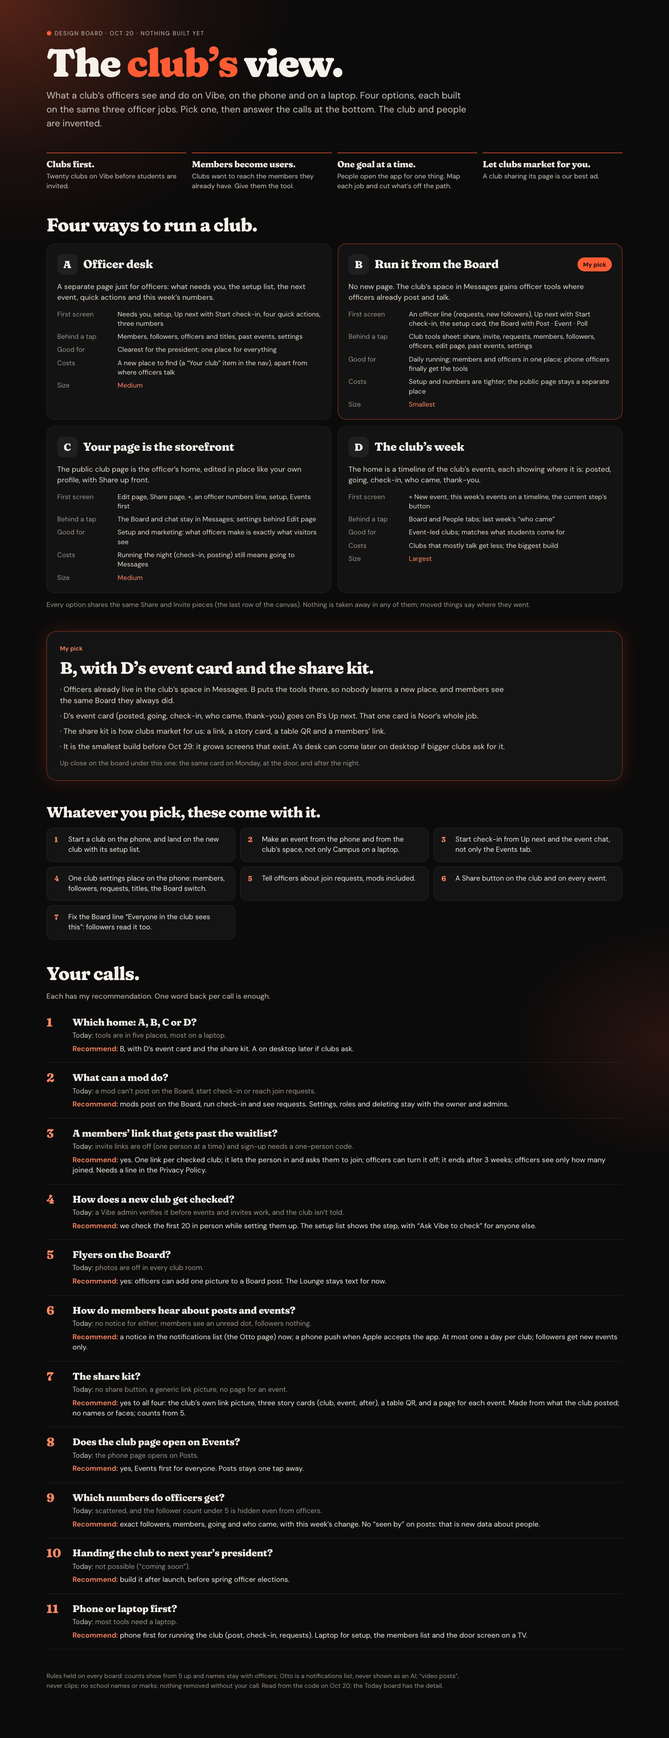
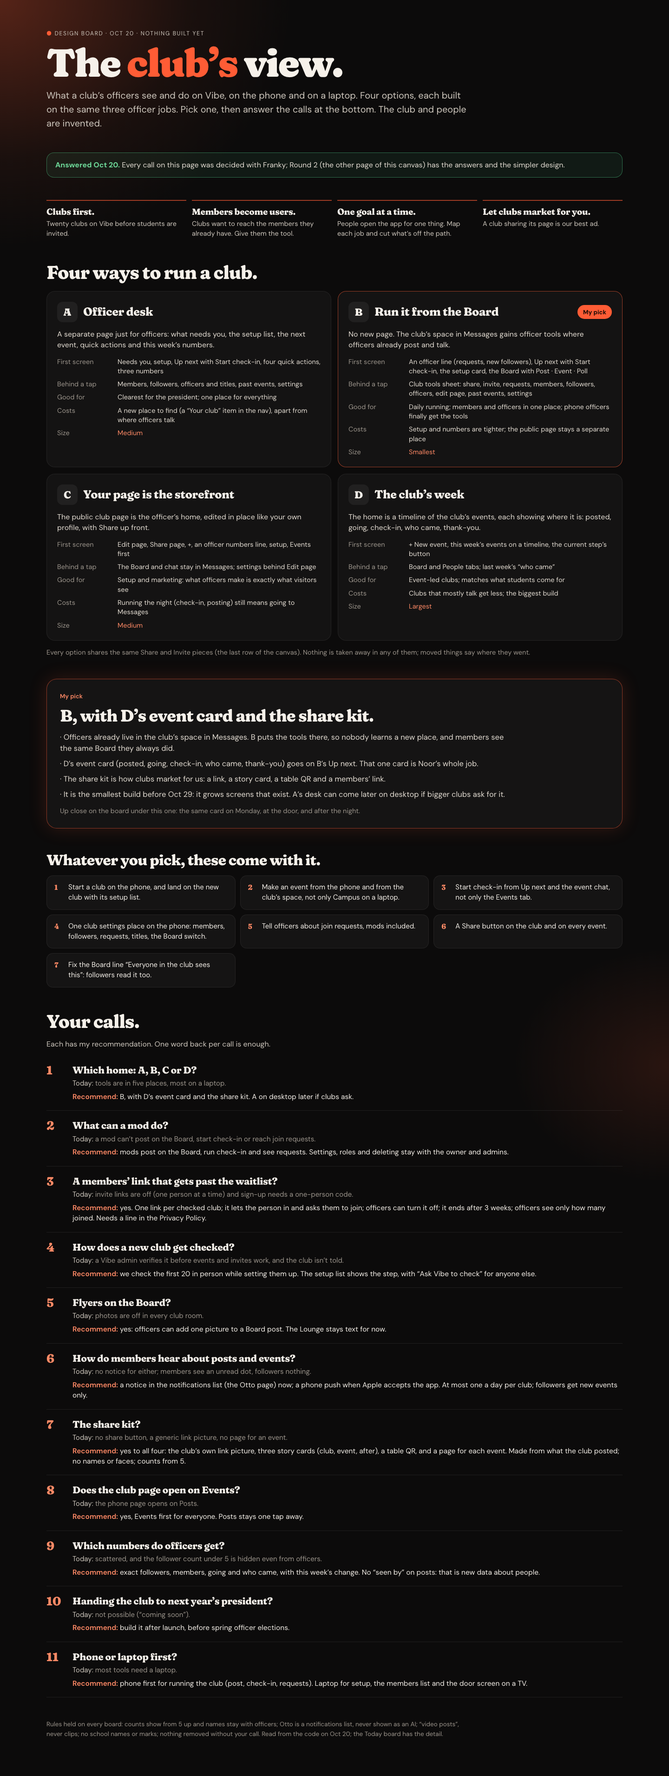
docs(handoff): club view, every call answered, DECISIONS.md (Franky, Oct 20)
Round 1's eight calls answered one by one: Owner and Officers (no mods), a
members' link with limits, Board pictures and event covers, notices, the
whole share kit, Posts first with About in the header, counts and Insights,
hand-over before launch. Boards redrawn to match; DECISIONS.md lists what
each one touches for the build plan.

Changed region(s): [[0.0625, 0.031, 0.9062, 0.9925], [0.6875, 0.4652, 0.9062, 0.5273]]

diff --git a/handoffs/2026-10-20-club-view/project/R2_Main.dc.html b/handoffs/2026-10-20-club-view/project/R2_Main.dc.html
@@ -16,7 +16,7 @@ a{color:inherit;text-decoration:none}
 a:hover{color:inherit}
 </style>
 </helmet>
-<div style="min-height: 1600px; position: relative; isolation: isolate; background: #0C0B0B; color: #F6F1EA; font-family: 'DM Sans', system-ui, sans-serif; padding: 64px 24px 72px">
+<div style="min-height: 2240px; position: relative; isolation: isolate; background: #0C0B0B; color: #F6F1EA; font-family: 'DM Sans', system-ui, sans-serif; padding: 64px 24px 72px">
   <div aria-hidden="true" style="position: absolute; inset: 0; z-index: -1; pointer-events: none; background: radial-gradient(900px 760px at 0% 0%, rgba(255,92,53,0.28), rgba(255,92,53,0.06) 45%, transparent 70%)"></div>
   <div style="max-width: 1120px; margin: 0 auto; display: flex; flex-direction: column; gap: 44px">
     <header style="display: flex; flex-direction: column; gap: 14px; max-width: 900px">
@@ -45,7 +45,7 @@ a:hover{color:inherit}
     </section>
 
     <section aria-label="Calls" style="display: flex; flex-direction: column; gap: 10px">
-      <h2 style="font-family: Fraunces, serif; font-weight: 800; font-size: 36px; letter-spacing: -0.03em">Four calls, answered.</h2>
+      <h2 style="font-family: Fraunces, serif; font-weight: 800; font-size: 36px; letter-spacing: -0.03em">Every call, answered.</h2>
       <ol style="list-style: none; display: flex; flex-direction: column">
         <sc-for list="{{calls}}" as="c" hint-placeholder-count="4">
           <li style="display: grid; grid-template-columns: 44px minmax(0, 1fr); gap: 4px 12px; padding: 16px 0; border-bottom: 1px solid rgba(255,255,255,0.08)">
@@ -57,12 +57,21 @@ a:hover{color:inherit}
           </li>
         </sc-for>
       </ol>
-      <p style="font-size: 14.5px; line-height: 1.5; color: #9C958C">Round 1’s other calls still stand: what mods can do, the members’ link, flyers, notices, the share kit, Events first, officer numbers, hand-over.</p>
+            <h3 style="font-family: Fraunces, serif; font-weight: 800; font-size: 24px; letter-spacing: -0.02em; margin-top: 18px">Round 1’s calls, answered Oct 20.</h3>
+      <ol style="list-style: none; display: grid; grid-template-columns: repeat(auto-fit, minmax(min(500px, 100%), 1fr)); gap: 10px">
+        <sc-for list="{{r1}}" as="d" hint-placeholder-count="8">
+          <li style="border-radius: 14px; background: rgba(22,21,21,0.86); border: 1px solid rgba(255,255,255,0.07); padding: 14px 16px; display: flex; flex-direction: column; gap: 4px">
+            <div style="display: flex; align-items: baseline; gap: 10px"><span style="font-family: Fraunces, serif; font-weight: 800; color: #FF8A66">{{d.n}}</span><span style="font-family: Fraunces, serif; font-weight: 800; font-size: 18px; letter-spacing: -0.02em">{{d.t}}</span></div>
+            <div style="font-size: 14.5px; line-height: 1.45; color: #E4DDD3">{{d.d}}</div>
+          </li>
+        </sc-for>
+      </ol>
+      <div style="border-radius: 16px; border: 1px solid rgba(255,92,53,0.4); padding: 16px 18px; font-size: 15px; line-height: 1.5; color: #E4DDD3"><strong style="color: #FF8A66">Honest note:</strong> with hand-over before launch, this is a lot to build in the nine days before Oct 29. Next step: a build order that says what must work on launch night and what can follow in the first weeks.</div>
     </section>
   </div>
 </div>
 </x-dc>
-<script type="text/x-dc" data-dc-script data-props='{"$preview":{"width":1440,"height":1600}}'>
+<script type="text/x-dc" data-dc-script data-props='{"$preview":{"width":1440,"height":2240}}'>
 class Component extends DCLogic {
   renderVals() {
     return {
@@ -72,11 +81,21 @@ class Component extends DCLogic {
         { q: 'Part of several clubs?', t: 'A switcher, and a dot where you’re needed.', lines: ['Phone: the same switcher lists you first, then each club you run, with what needs you. A dot on the Profile tab says one does.', 'Desktop: each club you run is its own line in the nav.', 'Only clubs where you’re an officer. Clubs you just belong to stay in Messages and on your profile.'] },
         { q: 'Club emails?', t: 'People sign in as themselves.', lines: ['No shared club login: when officers graduate, a shared password leaves with them.', 'The club’s email is optional: it can prove the club is real and get it back if its owner disappears.', 'For the first 20, you make a one-time setup link in Admin › Clubs and hand it over in person.'] }
       ],
+      r1: [
+        { n: '1', t: 'Roles: Owner and Officers.', d: 'Mod goes away; today’s mods become officers. Only the owner adds or removes officers, deletes the club or hands it over. Titles like President stay labels.' },
+        { n: '2', t: 'A members’ link, with limits.', d: 'One per checked club: it gets people past the waitlist and asks them to join. School email still required; 3 weeks, 150 sign-ups, officers can turn it off and see only how many joined. Needs a Privacy Policy line.' },
+        { n: '3', t: 'Flyers: Board pictures and event covers.', d: 'Officers can add one picture to a Board post, and every event gets a cover picture or a simple icon. The Lounge stays text.' },
+        { n: '4', t: 'Notices for events and Board posts.', d: 'New events reach members and followers; Board posts reach members. In the app now, phone push after Apple. At most one a day per club; anyone can mute a club.' },
+        { n: '5', t: 'The whole share kit.', d: 'The club’s own link picture, three story cards (club, event, after), a table QR, and a page for every event.' },
+        { n: '6', t: 'Posts first, About in the header.', d: 'The next event is pinned above the tabs; tabs are Posts, Events, Board. Bio, one link, who can join and when it meets sit under the name, the rest behind “More about us”.' },
+        { n: '7', t: 'Counts and a small Insights page.', d: 'Officers see exact followers and members (even under 5), this week’s change, going and who came. Insights in Club tools: followers by week, turnout by event. No “seen by”.' },
+        { n: '8', t: 'Hand-over, before launch.', d: 'The owner picks an officer, who accepts; the old owner becomes an officer or leaves. If an owner disappears, Vibe moves the club after checking with its email or two officers.' }
+      ],
       calls: [
         { n: '1', status: 'Decided Oct 20: yes', q: 'The club on the phone: switch on the Profile tab, with no sixth tab?', rec: 'yes. Students already switch to their club’s Instagram account this way. The two other ways (a row in Messages, a card on your profile) are drawn beside it for comparison.' },
         { n: '2', status: 'Kept as drawn, Oct 20', q: 'A one-time setup link from Admin › Clubs for the first 20?', rec: 'yes. It marks the club as checked, lets the president past the waitlist, and makes them the owner.' },
         { n: '3', status: 'Kept as drawn, Oct 20', q: 'Club emails?', rec: 'never a login. Optional, for checking a club that set itself up and for getting a club back.' },
-        { n: '4', status: 'Kept as drawn, Oct 20', q: 'Can mods switch to the club?', rec: 'yes, with only the tools their role allows. Members never see the switch.' }
+        { n: '4', status: 'Answered by roles', q: 'Can mods switch to the club?', rec: 'there are no mods now (Round 1, call 1): every officer can switch. Members never see the switch.' }
       ]
     };
   }

diff --git a/handoffs/2026-10-20-club-view/project/R2_Club_Phone.dc.html b/handoffs/2026-10-20-club-view/project/R2_Club_Phone.dc.html
@@ -18,7 +18,7 @@ a:hover{color:inherit}
 svg{display:block}
 </style>
 </helmet>
-<div style="width: 390px; height: 1100px; position: relative; isolation: isolate; overflow: hidden; display: flex; flex-direction: column; background: #0C0B0B; color: #F6F1EA; font-family: 'DM Sans', system-ui, sans-serif">
+<div style="width: 390px; height: 1160px; position: relative; isolation: isolate; overflow: hidden; display: flex; flex-direction: column; background: #0C0B0B; color: #F6F1EA; font-family: 'DM Sans', system-ui, sans-serif">
   <div aria-hidden="true" style="position: absolute; inset: 0; z-index: -1; pointer-events: none; background: linear-gradient(180deg, rgba(42,138,142,0.22) 0%, rgba(12,11,11,0) 38%), radial-gradient(620px 560px at 0% 85%, rgba(255,92,53,0.18), transparent 70%)"></div>
 
   <div style="position: relative; height: 150px; flex-shrink: 0; background: repeating-conic-gradient(rgba(255,255,255,0.05) 0% 25%, transparent 0% 50%) 0 0 / 28px 28px, linear-gradient(160deg, #2A6F72 0%, #1C4A4D 60%, #10292B 100%)">
@@ -39,8 +39,14 @@ svg{display:block}
         <span style="font-family: Fraunces, serif; font-weight: 800; font-size: 27px; letter-spacing: -0.03em; line-height: 1.05">Sixty-Four Chess</span>
         <svg width="18" height="18" viewBox="0 0 24 24" fill="none" stroke="#CFC8BE" stroke-width="2.2" stroke-linecap="round" stroke-linejoin="round" aria-hidden="true"><path d="M6 9l6 6 6-6"></path></svg>
       </button>
-      <div style="display: flex; align-items: center; gap: 8px; font-size: 14px; color: #9C958C"><span style="height: 22px; padding: 0 8px; border-radius: 999px; border: 1px solid rgba(150,186,255,0.5); color: #96BAFF; font-size: 11px; font-weight: 700; letter-spacing: 0.08em; display: inline-flex; align-items: center">OPEN</span>@sixtyfour</div>
+      <div style="font-size: 14px; color: #9C958C">@sixtyfour</div>
       <div style="font-size: 15px; line-height: 1.45; color: #E4DDD3; margin-top: 6px">Weekly games in the Lantern Room. Beginners welcome, we will teach you.</div>
+      <a href="#" style="display: flex; align-items: center; gap: 6px; font-size: 14px; font-weight: 600; color: #96BAFF; min-height: 28px"><svg width="14" height="14" viewBox="0 0 24 24" fill="none" stroke="currentColor" stroke-width="2" stroke-linecap="round" stroke-linejoin="round" aria-hidden="true"><path d="M10 14a4 4 0 0 0 5.7 0l3-3a4 4 0 0 0-5.7-5.7l-1 1M14 10a4 4 0 0 0-5.7 0l-3 3a4 4 0 0 0 5.7 5.7l1-1"></path></svg>Instagram · @sixtyfour</a>
+      <div style="display: flex; flex-wrap: wrap; gap: 6px; align-items: center; margin-top: 2px">
+        <span style="height: 28px; padding: 0 10px; border-radius: 999px; border: 1px solid rgba(255,255,255,0.12); font-size: 13px; display: inline-flex; align-items: center">Open · anyone can join</span>
+        <span style="height: 28px; padding: 0 10px; border-radius: 999px; border: 1px solid rgba(255,255,255,0.12); font-size: 13px; display: inline-flex; align-items: center">Thursdays · 7 PM</span>
+        <a href="#" style="height: 28px; padding: 0 4px; font-size: 13px; font-weight: 600; color: #CFC8BE; display: inline-flex; align-items: center">More about us ›</a>
+      </div>
     </div>
 
     <div style="display: grid; grid-template-columns: repeat(2, minmax(0, 1fr)); gap: 8px">
@@ -61,8 +67,9 @@ svg{display:block}
         <div style="font-size: 13px; color: #CFC8BE">Up next · Thu · 7 PM · The Lantern Room</div>
         <div style="font-size: 13px; color: #F6C468; white-space: nowrap">In 2 days</div>
       </div>
-      <div style="display: flex; align-items: baseline; justify-content: space-between; gap: 8px">
-        <div style="font-family: Fraunces, serif; font-weight: 800; font-size: 24px; letter-spacing: -0.02em; line-height: 1.05">Blitz Night</div>
+      <div style="display: flex; align-items: center; justify-content: space-between; gap: 10px">
+        <span aria-hidden="true" style="width: 44px; height: 44px; border-radius: 10px; flex-shrink: 0; background: linear-gradient(150deg, #F6C468 0%, #B9772E 55%, #4A2A12 100%); box-shadow: inset 0 0 0 1px rgba(255,255,255,0.12)"></span>
+        <div style="flex: 1; font-family: Fraunces, serif; font-weight: 800; font-size: 24px; letter-spacing: -0.02em; line-height: 1.05">Blitz Night</div>
         <div style="font-size: 13.5px; color: #CFC8BE; white-space: nowrap"><strong style="color: #F6F1EA">14</strong> going · <strong style="color: #F6F1EA">6</strong> interested</div>
       </div>
       <ol aria-label="Steps" style="list-style: none; display: grid; grid-template-columns: repeat(5, minmax(0, 1fr)); gap: 2px">
@@ -86,8 +93,8 @@ svg{display:block}
       <div style="flex: 1; border-top: 1px dashed rgba(246,241,234,0.35)"></div>
     </div>
 
-    <div role="tablist" aria-label="Club profile" style="display: grid; grid-template-columns: repeat(4, minmax(0, 1fr)); border-bottom: 1px solid rgba(255,255,255,0.08); margin-top: 4px">
-      <sc-for list="{{ptabs}}" as="p" hint-placeholder-count="4">
+    <div role="tablist" aria-label="Club profile" style="display: grid; grid-template-columns: repeat(3, minmax(0, 1fr)); border-bottom: 1px solid rgba(255,255,255,0.08); margin-top: 4px">
+      <sc-for list="{{ptabs}}" as="p" hint-placeholder-count="3">
         <button type="button" role="tab" aria-selected="{{p.sel}}" style="height: 44px; font-size: 14px; font-weight: 600; color: {{p.ink}}; box-shadow: {{p.line}}">{{p.label}}</button>
       </sc-for>
     </div>
@@ -114,7 +121,7 @@ svg{display:block}
   </nav>
 </div>
 </x-dc>
-<script type="text/x-dc" data-dc-script data-props='{"$preview":{"width":390,"height":1100}}'>
+<script type="text/x-dc" data-dc-script data-props='{"$preview":{"width":390,"height":1160}}'>
 class Component extends DCLogic {
   renderVals() {
     const names = ['Posted', 'Going', 'Check-in', 'Who came', 'Thank-you'];
@@ -127,7 +134,7 @@ class Component extends DCLogic {
     const off = { sel: 'false', ink: '#9C958C', line: 'none' };
     return {
       steps,
-      ptabs: [Object.assign({ label: 'Posts' }, on), Object.assign({ label: 'Events' }, off), Object.assign({ label: 'Board' }, off), Object.assign({ label: 'About' }, off)],
+      ptabs: [Object.assign({ label: 'Posts' }, on), Object.assign({ label: 'Events' }, off), Object.assign({ label: 'Board' }, off)],
       posts: [
         { t: 'Rapid Night, 18 came', bg: 'linear-gradient(150deg, #5B3A2A, #2A1B14)' },
         { t: 'New boards are in', bg: 'linear-gradient(150deg, #2A4A5B, #142530)' },

diff --git a/handoffs/2026-10-20-club-view/project/R2_Club_Desktop.dc.html b/handoffs/2026-10-20-club-view/project/R2_Club_Desktop.dc.html
@@ -18,7 +18,7 @@ a:hover{color:inherit}
 svg{display:block}
 </style>
 </helmet>
-<div style="min-height: 1000px; position: relative; isolation: isolate; display: flex; flex-wrap: wrap; background: #0C0B0B; color: #F6F1EA; font-family: 'DM Sans', system-ui, sans-serif">
+<div style="min-height: 1060px; position: relative; isolation: isolate; display: flex; flex-wrap: wrap; background: #0C0B0B; color: #F6F1EA; font-family: 'DM Sans', system-ui, sans-serif">
   <div aria-hidden="true" style="position: absolute; inset: 0; z-index: -1; pointer-events: none; background: radial-gradient(720px 620px at 0% 100%, rgba(255,92,53,0.30), rgba(255,92,53,0.06) 40%, transparent 68%)"></div>
 
   <nav aria-label="App" style="flex: 0 0 232px; padding: 24px 14px; display: flex; flex-direction: column; gap: 4px; border-right: 1px solid rgba(255,255,255,0.06)">
@@ -62,10 +62,17 @@ svg{display:block}
 
     <div style="display: flex; flex-wrap: wrap; gap: 20px; align-items: flex-start">
       <div style="flex: 2 1 560px; min-width: 0; display: flex; flex-direction: column; gap: 16px">
-        <div style="font-size: 15.5px; line-height: 1.45; color: #E4DDD3">Weekly games in the Lantern Room. Beginners welcome, we will teach you.</div>
+        <div style="display: flex; flex-wrap: wrap; align-items: center; gap: 8px 14px">
+          <div style="font-size: 15.5px; line-height: 1.45; color: #E4DDD3">Weekly games in the Lantern Room. Beginners welcome, we will teach you.</div>
+          <a href="#" style="display: flex; align-items: center; gap: 6px; font-size: 14px; font-weight: 600; color: #96BAFF"><svg width="14" height="14" viewBox="0 0 24 24" fill="none" stroke="currentColor" stroke-width="2" stroke-linecap="round" stroke-linejoin="round" aria-hidden="true"><path d="M10 14a4 4 0 0 0 5.7 0l3-3a4 4 0 0 0-5.7-5.7l-1 1M14 10a4 4 0 0 0-5.7 0l-3 3a4 4 0 0 0 5.7 5.7l1-1"></path></svg>Instagram · @sixtyfour</a>
+          <span style="height: 28px; padding: 0 10px; border-radius: 999px; border: 1px solid rgba(255,255,255,0.12); font-size: 13px; display: inline-flex; align-items: center">Open · anyone can join</span>
+          <span style="height: 28px; padding: 0 10px; border-radius: 999px; border: 1px solid rgba(255,255,255,0.12); font-size: 13px; display: inline-flex; align-items: center">Thursdays · 7 PM</span>
+          <a href="#" style="font-size: 13.5px; font-weight: 600; color: #CFC8BE">More about us ›</a>
+        </div>
         <section aria-label="Up next" style="border-radius: 18px; padding: 18px 20px; background: rgba(22,21,21,0.92); border: 1px solid rgba(255,92,53,0.55); box-shadow: 0 0 30px rgba(255,92,53,0.18); display: flex; flex-wrap: wrap; align-items: center; gap: 14px 24px">
-          <div style="flex: 1 1 220px; display: flex; flex-direction: column; gap: 4px">
-            <div style="font-size: 13.5px; color: #CFC8BE">Up next · Thu · 7 PM · The Lantern Room</div>
+          <span aria-hidden="true" style="width: 64px; height: 64px; border-radius: 14px; flex-shrink: 0; background: linear-gradient(150deg, #F6C468 0%, #B9772E 55%, #4A2A12 100%); box-shadow: inset 0 0 0 1px rgba(255,255,255,0.12)"></span>
+          <div style="flex: 1 1 200px; display: flex; flex-direction: column; gap: 4px">
+            <div style="font-size: 13.5px; color: #CFC8BE; white-space: nowrap">Up next · Thu · 7 PM · The Lantern Room</div>
             <div style="font-family: Fraunces, serif; font-weight: 800; font-size: 28px; letter-spacing: -0.03em; line-height: 1.05">Blitz Night</div>
             <div style="font-size: 14px; color: #CFC8BE"><strong style="color: #F6F1EA">14</strong> going · <strong style="color: #F6F1EA">6</strong> interested · <span style="color: #F6C468">in 2 days</span></div>
           </div>
@@ -83,7 +90,7 @@ svg{display:block}
           </div>
         </section>
         <div role="tablist" aria-label="Club page" style="display: flex; gap: 28px; border-bottom: 1px solid rgba(255,255,255,0.08)">
-          <sc-for list="{{ptabs}}" as="p" hint-placeholder-count="4">
+          <sc-for list="{{ptabs}}" as="p" hint-placeholder-count="3">
             <button type="button" role="tab" aria-selected="{{p.sel}}" style="height: 44px; font-size: 14.5px; font-weight: 600; color: {{p.ink}}; box-shadow: {{p.line}}">{{p.label}}</button>
           </sc-for>
         </div>
@@ -118,7 +125,7 @@ svg{display:block}
   </main>
 </div>
 </x-dc>
-<script type="text/x-dc" data-dc-script data-props='{"$preview":{"width":1440,"height":1000}}'>
+<script type="text/x-dc" data-dc-script data-props='{"$preview":{"width":1440,"height":1060}}'>
 class Component extends DCLogic {
   renderVals() {
     const names = ['Posted', 'Going', 'Check-in', 'Who came', 'Thank-you'];
@@ -131,7 +138,7 @@ class Component extends DCLogic {
     const off = { sel: 'false', ink: '#9C958C', line: 'none' };
     return {
       steps,
-      ptabs: [Object.assign({ label: 'Posts' }, on), Object.assign({ label: 'Events' }, off), Object.assign({ label: 'Board' }, off), Object.assign({ label: 'About' }, off)],
+      ptabs: [Object.assign({ label: 'Posts' }, on), Object.assign({ label: 'Events' }, off), Object.assign({ label: 'Board' }, off)],
       posts: [
         { t: 'Rapid Night, 18 came', bg: 'linear-gradient(150deg, #5B3A2A, #2A1B14)' },
         { t: 'New boards are in', bg: 'linear-gradient(150deg, #2A4A5B, #142530)' },
@@ -152,6 +159,7 @@ class Component extends DCLogic {
         { name: 'Compound Interest', initials: 'CI', color: 'linear-gradient(135deg, #8A6A2A, #5C4519)', ink: '#CFC8BE', bg: 'transparent', dot: 'transparent', current: 'false' }
       ],
       tools: [
+        { label: 'Insights', meta: 'Followers, turnout' },
         { label: 'Join requests', meta: '2' },
         { label: 'Members', meta: '23' },
         { label: 'Followers', meta: '41' },

diff --git a/handoffs/2026-10-20-club-view/project/Main.dc.html b/handoffs/2026-10-20-club-view/project/Main.dc.html
@@ -16,7 +16,7 @@ a{color:inherit;text-decoration:none}
 a:hover{color:inherit}
 </style>
 </helmet>
-<div style="min-height: 3740px; position: relative; isolation: isolate; background: #0C0B0B; color: #F6F1EA; font-family: 'DM Sans', system-ui, sans-serif; padding: 64px 24px 72px">
+<div style="min-height: 3820px; position: relative; isolation: isolate; background: #0C0B0B; color: #F6F1EA; font-family: 'DM Sans', system-ui, sans-serif; padding: 64px 24px 72px">
   <div aria-hidden="true" style="position: absolute; inset: 0; z-index: -1; pointer-events: none; background: radial-gradient(900px 760px at 0% 0%, rgba(255,92,53,0.30), rgba(255,92,53,0.06) 45%, transparent 70%), radial-gradient(560px 420px at 100% 60%, rgba(255,92,53,0.12), transparent 60%)"></div>
   <div style="max-width: 1240px; margin: 0 auto; display: flex; flex-direction: column; gap: 48px">
 
@@ -25,6 +25,8 @@ a:hover{color:inherit}
       <h1 style="font-family: Fraunces, serif; font-weight: 900; font-size: 84px; letter-spacing: -0.035em; line-height: 0.98">The <span style="color: #FF5C35">club’s</span> view.</h1>
       <p style="font-size: 20px; line-height: 1.5; color: #CFC8BE">What a club’s officers see and do on Vibe, on the phone and on a laptop. Four options, each built on the same three officer jobs. Pick one, then answer the calls at the bottom. The club and people are invented.</p>
     </header>
+
+    <div style="border-radius: 16px; border: 1px solid rgba(79,208,138,0.45); background: rgba(79,208,138,0.08); padding: 14px 18px; font-size: 16px; line-height: 1.5; color: #E4DDD3"><strong style="color: #6FDB9A">Answered Oct 20.</strong> Every call on this page was decided with Franky; Round 2 (the other page of this canvas) has the answers and the simpler design.</div>
 
     <section aria-label="From Parker" style="display: grid; grid-template-columns: repeat(auto-fit, minmax(min(270px, 100%), 1fr)); gap: 12px">
       <sc-for list="{{heard}}" as="h" hint-placeholder-count="4">
@@ -106,7 +108,7 @@ a:hover{color:inherit}
   </div>
 </div>
 </x-dc>
-<script type="text/x-dc" data-dc-script data-props='{"$preview":{"width":1440,"height":3740}}'>
+<script type="text/x-dc" data-dc-script data-props='{"$preview":{"width":1440,"height":3820}}'>
 class Component extends DCLogic {
   renderVals() {
     const plain = 'rgba(255,255,255,0.07)';

diff --git a/handoffs/2026-10-20-club-view/project/R2_Switcher_Phone.dc.html b/handoffs/2026-10-20-club-view/project/R2_Switcher_Phone.dc.html
@@ -67,8 +67,8 @@ class Component extends DCLogic {
       clubs: [
         { name: 'Priya Raman', initials: 'PR', role: 'You', needs: 'Now', needsInk: '#CFC8BE', color: '#E8B26A', avatarInk: '#0C0B0B', bg: 'rgba(255,255,255,0.06)', border: 'rgba(255,255,255,0.14)', current: 'true', group: false },
         { name: 'Sixty-Four Chess', initials: 'SC', role: 'Owner · president', needs: '2 to review', needsInk: '#FF8A66', color: 'linear-gradient(135deg, #2A8A8E, #1C5E62)', avatarInk: '#F6F1EA', bg: 'transparent', border: 'rgba(255,255,255,0.08)', current: 'false', group: true },
-        { name: 'Quiet Hours', initials: 'QH', role: 'Mod · social chair', needs: 'Check-in tonight', needsInk: '#F6C468', color: 'linear-gradient(135deg, #3E6FA8, #26476E)', avatarInk: '#F6F1EA', bg: 'transparent', border: 'rgba(255,255,255,0.08)', current: 'false', group: false },
-        { name: 'Compound Interest', initials: 'CI', role: 'Admin · treasurer', needs: '', needsInk: '#9C958C', color: 'linear-gradient(135deg, #8A6A2A, #5C4519)', avatarInk: '#F6F1EA', bg: 'transparent', border: 'rgba(255,255,255,0.08)', current: 'false', group: false }
+        { name: 'Quiet Hours', initials: 'QH', role: 'Officer · social chair', needs: 'Check-in tonight', needsInk: '#F6C468', color: 'linear-gradient(135deg, #3E6FA8, #26476E)', avatarInk: '#F6F1EA', bg: 'transparent', border: 'rgba(255,255,255,0.08)', current: 'false', group: false },
+        { name: 'Compound Interest', initials: 'CI', role: 'Officer · treasurer', needs: '', needsInk: '#9C958C', color: 'linear-gradient(135deg, #8A6A2A, #5C4519)', avatarInk: '#F6F1EA', bg: 'transparent', border: 'rgba(255,255,255,0.08)', current: 'false', group: false }
       ]
     };
   }

diff --git a/handoffs/2026-10-20-club-view/DECISIONS.md b/handoffs/2026-10-20-club-view/DECISIONS.md
@@ -1,0 +1,59 @@
+# The club's view: decisions (Franky, Oct 20, 2026)
+
+Board: https://claude.ai/artifact/FZQgjLYfoBojmPFuKF3NKe (opens on Round 2). What exists today, with file
+references: `INVENTORY.md`. Nothing below is built yet.
+
+## The design (Round 2)
+
+1. **No sixth tab. Switch to your club on the Profile tab**, Instagram-style: tap your name on your profile, or
+   hold the Profile tab, and pick a club. The tab then becomes the club's own page (banner, counts, posts, events,
+   Edit page, Share page) until you switch back. Chats and Board posts still show the person's own name and title.
+   Desktop: "Clubs you run" in the left nav, built like the founders' Admin link (which stays founders-only).
+2. **On the club's page, officers see only two extra things:** a "needs you" line (join requests, new followers,
+   unfinished setup) and the Up next card with its steps (Posted, Going, Check-in, Who came, Thank-you) and the
+   next action as its button. Posting (Board post, new event, poll) sits behind +; everything else is in Club tools.
+3. **Several clubs:** the switcher lists you first, then each club you run; one nav line per club on desktop; a
+   dot where you're needed. Only clubs where you're an officer.
+4. **Setup:** people sign in as themselves; there are no club logins. The club's email is optional, used only to
+   check a club that set itself up and to get a club back. The first 20 clubs get a one-time setup link from
+   Admin › Clubs, handed over in person: it marks the club checked, lets the president past the waitlist and makes
+   them the owner.
+
+## Round 1's calls
+
+1. **Roles: Owner and Officers.** Mod goes away; today's mods become officers. Only the owner adds or removes
+   officers, deletes the club or hands it over. Titles (President, Social chair) stay labels.
+2. **A members' link, with limits.** One per checked club; it gets people past the waitlist and asks them to join
+   that club; school email still required; ends after 3 weeks; 150 sign-ups; officers can turn it off and see
+   only how many joined.
+3. **Flyers.** Officers can add one picture to a Board post, and every event gets a cover picture or a simple icon.
+   The Lounge stays text.
+4. **Notices.** New events reach members and followers; Board posts reach members. In the app's notifications now,
+   phone push after Apple accepts the app. At most one a day per club; anyone can mute a club.
+5. **The whole share kit.** The club's own link picture, three story cards (club, event, after an event), a table
+   QR, and a page for every event. No names or faces; counts from 5 up.
+6. **The club page opens on Posts**, with the next event pinned above the tabs. Tabs: Posts, Events, Board. About
+   folds into the header: bio, one link, who can join, when it meets (a new field), and "More about us".
+7. **Numbers.** Officers see exact followers and members (even under 5), this week's change, going and who came,
+   and an Insights page in Club tools (followers by week, turnout by event). No "seen by".
+8. **Hand-over, before launch.** The owner picks an officer, who accepts; the old owner becomes an officer or
+   leaves. If an owner disappears, Vibe moves the club after checking with the club's email or two officers.
+
+## What each one touches (for the build plan)
+
+- **Production database changes** (each needs Franky's yes at the time): mods to officers and the new owner-only
+  rules (`org_members`, `can_post_org_channel`, the members route); the members' link (today `INVITE_LINKS_ENABLED
+  = false`, and waitlist codes are one person each); an optional club email; event covers and the meeting-time
+  field; Board pictures (photos are off in club rooms: `src/lib/chat/types.ts`, the messages upload route); new
+  notification types (the type list is a check constraint); ownership hand-over (`orgs.owner_id`, "coming soon"
+  today).
+- **Privacy Policy, same day as the change:** the members' link (which link let someone in), the club email,
+  event covers, and anything new Insights shows.
+- **Code areas:** the club page `src/app/orgs/[handle]/` (it already opens on Posts on the phone); the phone tab
+  bar and profile (`MobileTabBar.tsx`, `ClubsSection.tsx`); the desktop nav (`LeftNav.tsx`, next to the Admin
+  block); Admin › Clubs (`src/app/admin/`); the club link picture (`generateMetadata` in the club page has no
+  image today); the QR (`src/components/events/checkin/QrCode.tsx`); a new event page (today an event's link is
+  `/campus?tab=events&event=<id>`); counts (`FOLLOWER_COUNT_FLOOR` in `src/lib/orgs/following.ts`). Any new
+  outside host needs the Content-Security-Policy in `src/proxy.ts`.
+- **Honest note:** with hand-over before launch, this is a lot for the nine days before Oct 29. The next step is a
+  build order: what must work on launch night, and what follows in the first weeks.

diff --git a/handoffs/2026-10-20-club-view/README.md b/handoffs/2026-10-20-club-view/README.md
@@ -4,6 +4,7 @@ Franky's ask after the Parker meeting (`../2026-10-20-parker-meeting-notes.md`):
 see and do in Vibe, phone and desktop. Board first, no building; Franky picks.
 
 - **The board (private Design canvas):** https://claude.ai/artifact/FZQgjLYfoBojmPFuKF3NKe
+- **Decisions:** `DECISIONS.md`.
 - **Start on `Main`:** the four options, the pick (B, with D's event card and the share kit) and 11 calls, each with a recommendation.
 - **What exists today, with file references:** `INVENTORY.md` (and the `Today` board).
 - **The builders' brief:** `SPEC.md` (sample club, look, rules, the three jobs).
@@ -15,7 +16,7 @@ The canvas opens on Round 2 (`R2_*` boards); Round 1 is its own page.
 - **Several clubs:** the same switcher lists you first, then each club you run (phone); one nav line per club (desktop); a dot where you're needed; only clubs where you're an officer.
 - **Setup:** people sign in as themselves, never with a shared club login; the club's email is optional (proof and recovery). The first 20 get a one-time setup link from Admin › Clubs, handed over in person (checks the club, gets the president past the waitlist, makes them owner).
 - **Decided by Franky, Oct 20:** officers switch to their club from the Profile tab, no sixth tab. "Keep the rest of Round 2 as drawn": the one-time setup link from Admin › Clubs for the first 20, no club logins (the club's email is optional, for proof and recovery), and mods can switch with only their role's tools.
-- **Still open (Round 1's calls):** what mods can do inside the club, the members' link past the waitlist, flyers on the Board, notices for posts and events, the share kit, Events first on the club page, officer numbers, hand-over. Nothing is built yet.
+- **Every call is answered (Oct 20):** see `DECISIONS.md` (the design, Round 1's eight calls, and what each one touches). Nothing is built yet.
 
 ## Files
 - `project/*.dc.html` + `project/canvas.json`: the canvas source, exactly as published.
